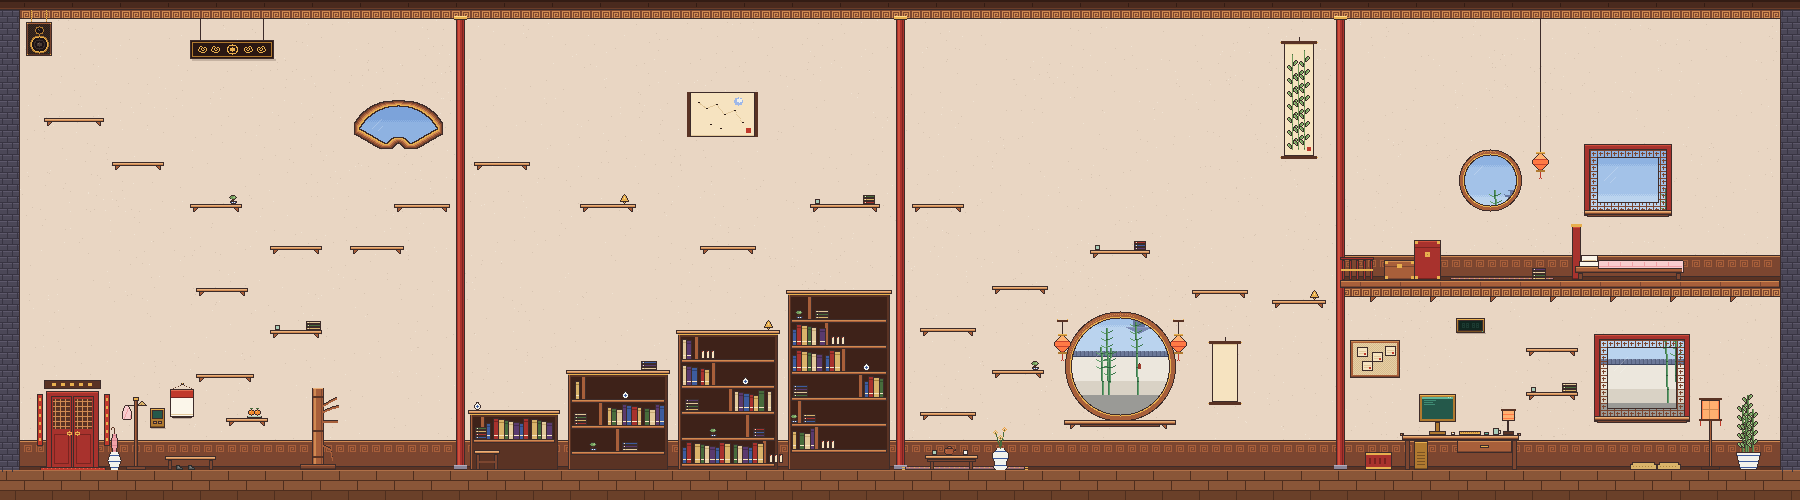
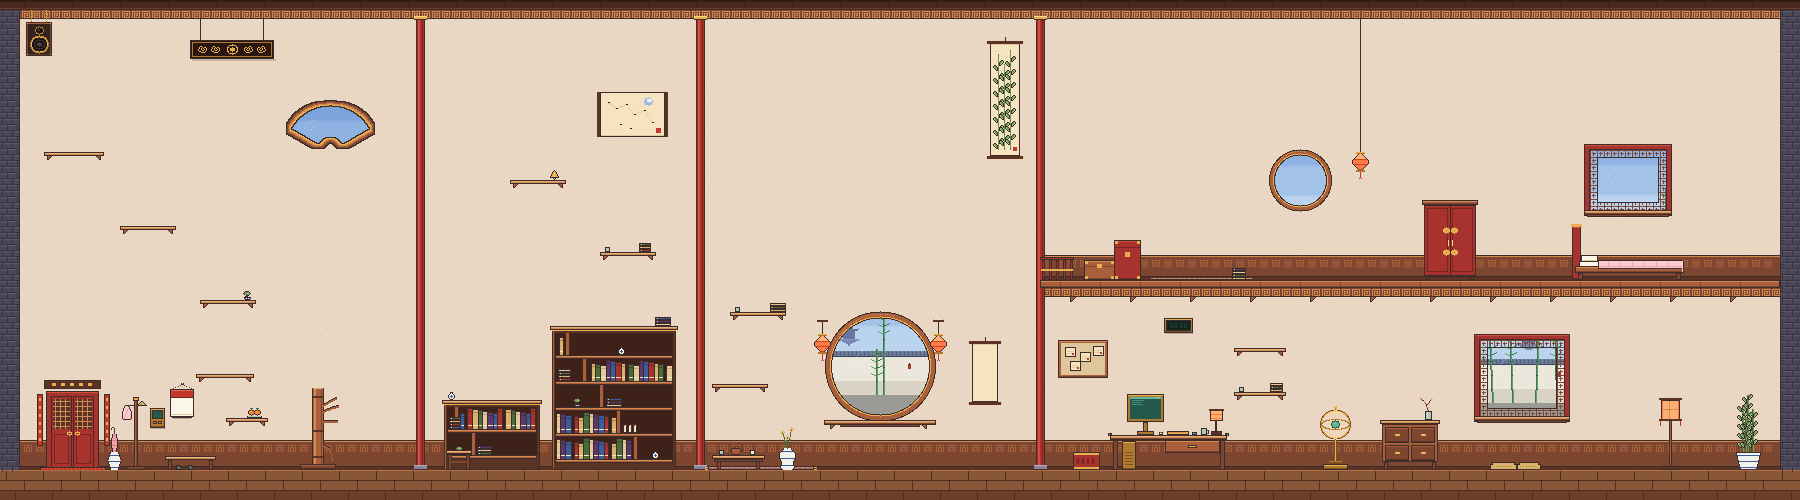
Update the art brief for the resized zones
The full-map reference, the 2x layout guide, the house layer and every
prop image were exported again for the new widths: two bookcases
instead of four, the fewer climbing shelves, the wide computer zone,
and the new armillary sphere, drawer cabinet and wardrobe. The zone
table, the prop table and the platform table now match the game, and
each prop's drawing was checked to sit fully inside its listed box.

diff --git a/docs/art-brief/README.md b/docs/art-brief/README.md
@@ -28,25 +28,25 @@
 | `rabbit_reference.png` | rabbit 现在有的 12 个动画，每个的第一帧 |
 | `concepts/` | 国风 + 星海的概念图（方向参考） |
 
-## 三、地图：从左到右四块
+## 三、地图：从左到右四块（右边电脑那块最宽）
 
 | | |
 |---|---|
 | 整张地图 | **1800 × 500**（约 4 屏宽、2 屏高） |
 | 镜头一屏 | **448 × 252**（16:9），跟着 rabbit 走 |
 | 地板顶面 | y = **470**（地板本身画到 500） |
-| 阁楼地板顶面 | y = **280**，从 x = **1340** 到右墙 |
+| 阁楼地板顶面 | y = **280**，从 x = **1040** 到右墙 |
 | 屋顶 | y = 10；左右墙内侧在 x = 20 和 x = 1780 |
 | rabbit 连椅子 | 约 **38 × 61**；跳一下约 51 高，二段跳约 93 高 |
 
 | 一块 | x | 下面 | 上面 |
 |---|---|---|---|
-| **门口** | 20 – 460 | 格扇门、伞、衣帽架、鞋凳、控制面板（点它打开设置）、日历、木人桩 | 练功的架子，之字形一路爬到**左上角的音箱**；一块匾、一扇扇面窗 |
-| **书架** | 460 – 900 | 四个书柜**一个比一个高**，顶面像台阶一样能踩；前面一个踏凳 | 练功的架子、星图手卷 |
-| **窗户** | 900 – 1340 | 月洞窗（窗台能站）、两边墙钩上的灯笼、番茄钟挂轴、茶桌、插花的青花瓶 | 练功的架子，从茶桌一路往上、经过月洞窗上面进阁楼；竹子画 |
-| **电脑** | 1340 – 1780 | 任务板、电子钟、书案上的电脑、台灯、绣墩、格子窗、落地宫灯、蒲团、竹子 | **阁楼**：栏杆、樟木箱、小圆窗、灯笼、格子窗、木床 |
+| **门口** | 20 – 420 | 格扇门、伞、衣帽架、鞋凳、控制面板（点它打开设置）、日历、木人桩 | 三块练功的架子，一路二段跳爬到**左上角的音箱**；一块匾、一扇扇面窗 |
+| **书架** | 420 – 700 | **两个书柜**，一矮一高，顶面能站；前面一个踏凳 | 两块练功的架子、星图手卷 |
+| **窗户** | 700 – 1040 | 月洞窗（窗台能站）、两边墙钩上的灯笼、番茄钟挂轴、茶桌、插花的青花瓶 | 两块练功的架子（从茶桌往上）、竹子画 |
+| **电脑**（最宽） | 1040 – 1780 | 任务板、电子钟、书案上的电脑、台灯、绣墩、两块通往阁楼的板、浑天仪、抽屉柜、格子窗、落地宫灯、蒲团、竹子 | **阁楼**：栏杆、樟木箱、小圆窗、灯笼、衣柜、格子窗、木床 |
 
-「练功的架子」就是墙上一块块的木板，rabbit 在上面跳来跳去（像银河恶魔城）。
+「练功的架子」就是墙上的几块木板，一块和一块之间要二段跳才上得去，rabbit 在上面跳来跳去（像银河恶魔城）。
 
 ## 四、分层
 
@@ -79,35 +79,36 @@
 | `dummy` | 木人桩 | 门口 | (300, 388) | 39 × 82 |
 | `control_panel` | 控制面板（屏上的齿轮、指示灯由程序画） | 门口 | (150, 408) | 16 × 21 |
 | `plaque` | 匾（连两根吊绳） | 门口 | (190, 19) | 86 × 42 |
-| `bamboo_painting` | 竹子画挂轴 | 窗户 | (1280, 37) | 38 × 122 |
+| `bamboo_painting` | 竹子画挂轴 | 窗户 | (986, 37) | 38 × 122 |
 | `speaker` | 音箱（连两根铜链；放声音时的音符、指示灯由程序画） | 门口 | (26, 10) | 26 × 46 |
-| `fan_window` | 扇面窗（玻璃留透明） | 门口 | (354, 100) | 89 × 49 |
-| `bookcase_1` | 书柜 1（最矮，顶面能站） | 书架 | (468, 410) | 92 × 60 |
-| `bookcase_2` | 书柜 2（顶面能站） | 书架 | (566, 370) | 104 × 100 |
-| `bookcase_3` | 书柜 3（顶面能站） | 书架 | (676, 330) | 107 × 140 |
-| `bookcase_4` | 书柜 4（最高，顶面能站） | 书架 | (786, 290) | 106 × 180 |
-| `step_stool` | 踏凳（顶面能站） | 书架 | (474, 450) | 26 × 20 |
-| `star_chart` | 星图手卷 | 书架 | (687, 92) | 71 × 45 |
-| `moon_window` | 月洞窗和窗台（玻璃留透明，窗台能站） | 窗户 | (1064, 311) | 112 × 118 |
-| `lantern` | 灯笼（三盏用同一张；吊绳、墙钩由程序画；夜里的光由程序画） | 窗户 / 阁楼 | (1054, 334)、(1170, 334)、(1532, 152) | 17 × 27 |
-| `pomo_scroll` | 番茄钟挂轴（上面的数字和进度由程序画） | 窗户 | (1208, 337) | 34 × 68 |
-| `tea_table` | 茶桌、紫砂壶、两个杯子（顶面能站；热气由程序画） | 窗户 | (925, 446) | 53 × 24 |
-| `vase` | 青花大瓶（插的花跟着节气换，由程序画） | 窗户 | (992, 448) | 17 × 22 |
-| `task_board` | 任务板 | 电脑 / 阁楼 | (1350, 340) | 50 × 38 |
-| `e_clock` | 电子钟（数字由程序画，屏要留深色） | 电脑 / 阁楼 | (1456, 318) | 30 × 16 |
-| `drum_stool` | 绣墩（顶面能站） | 电脑 / 阁楼 | (1365, 452) | 27 × 18 |
-| `desk` | 翘头书案、抽屉、桌下的铜机柜（顶面能站；机柜的小灯由程序画） | 电脑 / 阁楼 | (1400, 433) | 121 × 37 |
-| `computer` | 电脑（屏、支架、键盘、鼠标；屏里的雨和光标由程序画） | 电脑 / 阁楼 | (1419, 394) | 62 × 41 |
-| `desk_things` | 书案上的玉石和青瓷杯 | 电脑 / 阁楼 | (1484, 428) | 17 × 7 |
-| `desk_lamp` | 宫灯台灯（夜里的光由程序画） | 电脑 / 阁楼 | (1501, 409) | 15 × 26 |
-| `lattice_window` | 格子窗和窗台（玻璃留透明，窗台能站） | 电脑 / 阁楼 | (1594, 334) | 96 × 89 |
-| `palace_lantern` | 落地宫灯（夜里的光由程序画） | 电脑 / 阁楼 | (1699, 398) | 23 × 72 |
-| `cushions` | 两个蒲团 | 电脑 / 阁楼 | (1630, 462) | 51 × 8 |
+| `fan_window` | 扇面窗（玻璃留透明） | 门口 | (286, 100) | 89 × 49 |
+| `bookcase_1` | 书柜 1（矮的那个，顶面能站） | 书架 | (442, 400) | 100 × 70 |
+| `bookcase_2` | 书柜 2（高的那个，顶面能站） | 书架 | (550, 326) | 128 × 144 |
+| `step_stool` | 踏凳（顶面能站） | 书架 | (446, 450) | 26 × 20 |
+| `star_chart` | 星图手卷 | 书架 | (597, 92) | 71 × 45 |
+| `moon_window` | 月洞窗和窗台（玻璃留透明，窗台能站） | 窗户 | (824, 311) | 112 × 118 |
+| `lantern` | 灯笼（三盏用同一张；吊绳、墙钩由程序画；夜里的光由程序画） | 窗户 / 阁楼 | (814, 334)、(930, 334)、(1352, 152) | 17 × 27 |
+| `pomo_scroll` | 番茄钟挂轴（上面的数字和进度由程序画） | 窗户 | (968, 337) | 34 × 68 |
+| `tea_table` | 茶桌、紫砂壶、两个杯子（顶面能站；热气由程序画） | 窗户 | (712, 446) | 53 × 24 |
+| `vase` | 青花大瓶（插的花跟着节气换，由程序画） | 窗户 | (779, 448) | 17 × 22 |
+| `task_board` | 任务板 | 电脑 / 阁楼 | (1058, 340) | 50 × 38 |
+| `e_clock` | 电子钟（数字由程序画，屏要留深色） | 电脑 / 阁楼 | (1164, 318) | 30 × 16 |
+| `drum_stool` | 绣墩（顶面能站） | 电脑 / 阁楼 | (1073, 452) | 27 × 18 |
+| `desk` | 翘头书案、抽屉、桌下的铜机柜（顶面能站；机柜的小灯由程序画） | 电脑 / 阁楼 | (1108, 433) | 121 × 37 |
+| `computer` | 电脑（屏、支架、键盘、鼠标；屏里的雨和光标由程序画） | 电脑 / 阁楼 | (1127, 394) | 62 × 41 |
+| `desk_things` | 书案上的玉石和青瓷杯 | 电脑 / 阁楼 | (1192, 428) | 17 × 7 |
+| `desk_lamp` | 宫灯台灯（夜里的光由程序画） | 电脑 / 阁楼 | (1209, 409) | 15 × 26 |
+| `armillary` | 浑天仪（铜座、三道铜环、玉色小球） | 电脑 / 阁楼 | (1320, 406) | 31 × 64 |
+| `cabinet` | 抽屉柜（顶面能站） | 电脑 / 阁楼 | (1380, 397) | 60 × 73 |
+| `lattice_window` | 格子窗和窗台（玻璃留透明，窗台能站） | 电脑 / 阁楼 | (1474, 334) | 96 × 89 |
+| `palace_lantern` | 落地宫灯（夜里的光由程序画） | 电脑 / 阁楼 | (1659, 398) | 23 × 72 |
+| `cushions` | 两个蒲团 | 电脑 / 阁楼 | (1490, 462) | 51 × 8 |
 | `bamboo_pot` | 青花盆里的竹子 | 电脑 / 阁楼 | (1736, 394) | 25 × 76 |
-| `railing` | 阁楼的栏杆 | 电脑 / 阁楼 | (1340, 257) | 34 × 23 |
+| `railing` | 阁楼的栏杆 | 电脑 / 阁楼 | (1040, 257) | 34 × 23 |
+| `wardrobe` | 衣柜（顶面能站） | 电脑 / 阁楼 | (1422, 200) | 56 × 80 |
 | `bed` | 木床（顶面能站） | 电脑 / 阁楼 | (1571, 224) | 113 × 56 |
-| `chests` | 两个樟木箱（顶面能站） | 电脑 / 阁楼 | (1384, 240) | 57 × 40 |
-| `round_window` | 阁楼的小圆窗（玻璃留透明） | 电脑 / 阁楼 | (1459, 149) | 63 × 63 |
+| `chests` | 两个樟木箱（顶面能站） | 电脑 / 阁楼 | (1084, 240) | 57 × 40 |
+| `round_window` | 阁楼的小圆窗（玻璃留透明） | 电脑 / 阁楼 | (1269, 149) | 63 × 63 |
 | `loft_window` | 阁楼床上方的格子窗（玻璃留透明） | 电脑 / 阁楼 | (1584, 144) | 88 × 73 |
 
 还有几样**长短不一**的东西现在是程序按长度画的，以后可以按「三段」来画（左头 + 可以拉长的中间 + 右头），我来接：
@@ -138,45 +139,32 @@
 | 名称 | 在哪 | x 范围 | 顶面 y |
 |---|---|---|---|
 | 地板 | 全部 | 20 – 1780 | 470 |
-| 阁楼 | 电脑 / 阁楼 | 1340 – 1780 | 280 |
+| 阁楼 | 电脑 / 阁楼 | 1040 – 1780 | 280 |
 | 鞋凳 | 门口 | 165 – 215 | 456 |
 | 置物板 | 门口 | 226 – 268 | 418 |
 | 置物板 | 门口 | 196 – 254 | 374 |
-| 踏凳 | 书架 | 474 – 500 | 450 |
-| 书柜 | 书架 | 468 – 560 | 410 |
-| 书柜 | 书架 | 566 – 670 | 370 |
-| 书柜 | 书架 | 676 – 780 | 330 |
-| 书柜 | 书架 | 786 – 892 | 290 |
-| 茶几 | 窗户 | 925 – 978 | 455 |
-| 窗台 | 窗户 | 1064 – 1176 | 420 |
-| 绣墩 | 电脑 / 阁楼 | 1365 – 1392 | 452 |
-| 书桌 | 电脑 / 阁楼 | 1402 – 1519 | 435 |
-| 置物板 | 电脑 / 阁楼 | 1526 – 1578 | 392 |
-| 置物板 | 电脑 / 阁楼 | 1526 – 1578 | 348 |
-| 窗台 | 电脑 / 阁楼 | 1594 – 1690 | 416 |
-| 樟木箱 | 电脑 / 阁楼 | 1384 – 1415 | 260 |
-| 樟木箱 | 电脑 / 阁楼 | 1414 – 1441 | 240 |
+| 踏凳 | 书架 | 446 – 472 | 450 |
+| 书柜 | 书架 | 442 – 542 | 400 |
+| 书柜 | 书架 | 550 – 678 | 326 |
+| 茶几 | 窗户 | 712 – 765 | 455 |
+| 窗台 | 窗户 | 824 – 936 | 420 |
+| 绣墩 | 电脑 / 阁楼 | 1073 – 1100 | 452 |
+| 书桌 | 电脑 / 阁楼 | 1110 – 1227 | 435 |
+| 置物板 | 电脑 / 阁楼 | 1234 – 1286 | 392 |
+| 置物板 | 电脑 / 阁楼 | 1234 – 1286 | 348 |
+| 抽屉柜 | 电脑 / 阁楼 | 1380 – 1440 | 420 |
+| 窗台 | 电脑 / 阁楼 | 1474 – 1570 | 416 |
+| 樟木箱 | 电脑 / 阁楼 | 1084 – 1115 | 260 |
+| 樟木箱 | 电脑 / 阁楼 | 1114 – 1141 | 240 |
+| 衣柜 | 电脑 / 阁楼 | 1424 – 1476 | 200 |
 | 床 | 电脑 / 阁楼 | 1575 – 1680 | 260 |
-| 架子 | 门口 | 44 – 104 | 118 |
-| 架子 | 门口 | 112 – 164 | 162 |
-| 架子 | 门口 | 190 – 242 | 204 |
-| 架子 | 门口 | 270 – 322 | 246 |
-| 架子 | 门口 | 196 – 248 | 288 |
-| 架子 | 门口 | 270 – 322 | 330 |
-| 架子 | 门口 | 350 – 404 | 246 |
-| 架子 | 门口 | 394 – 450 | 204 |
-| 架子 | 书架 | 474 – 530 | 162 |
-| 架子 | 书架 | 580 – 636 | 204 |
-| 架子 | 书架 | 700 – 756 | 246 |
-| 架子 | 书架 | 810 – 880 | 204 |
-| 架子 | 窗户 | 912 – 964 | 204 |
-| 架子 | 窗户 | 920 – 976 | 412 |
-| 架子 | 窗户 | 992 – 1044 | 370 |
-| 架子 | 窗户 | 920 – 976 | 328 |
-| 架子 | 窗户 | 992 – 1048 | 286 |
-| 架子 | 窗户 | 1090 – 1150 | 250 |
-| 架子 | 窗户 | 1192 – 1248 | 290 |
-| 架子 | 窗户 | 1272 – 1326 | 300 |
+| 架子 | 门口 | 200 – 256 | 300 |
+| 架子 | 门口 | 120 – 176 | 226 |
+| 架子 | 门口 | 44 – 104 | 152 |
+| 架子 | 书架 | 600 – 656 | 252 |
+| 架子 | 书架 | 510 – 566 | 180 |
+| 架子 | 窗户 | 712 – 768 | 384 |
+| 架子 | 窗户 | 730 – 786 | 312 |
 
 要改家具的位置或高度没关系，把新坐标告诉我，我来改代码，再用程序把 rabbit 的跳跃模拟一遍，确认每一块都跳得上去。大概的规律：
 - 相邻两层的高度差最好不超过 **45**（一跳）；用二段跳最多 **85**；
